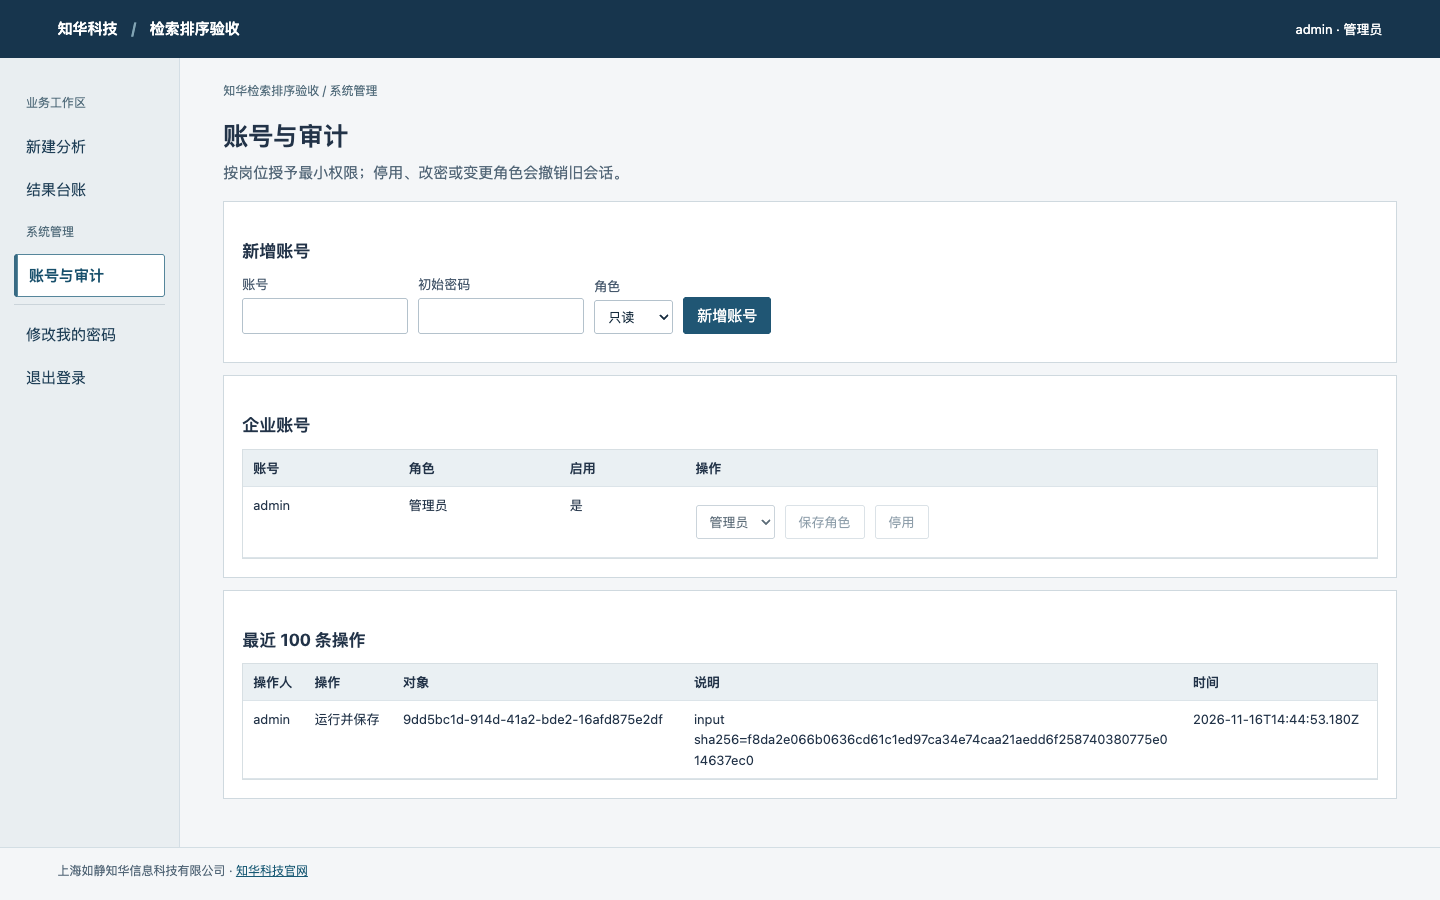
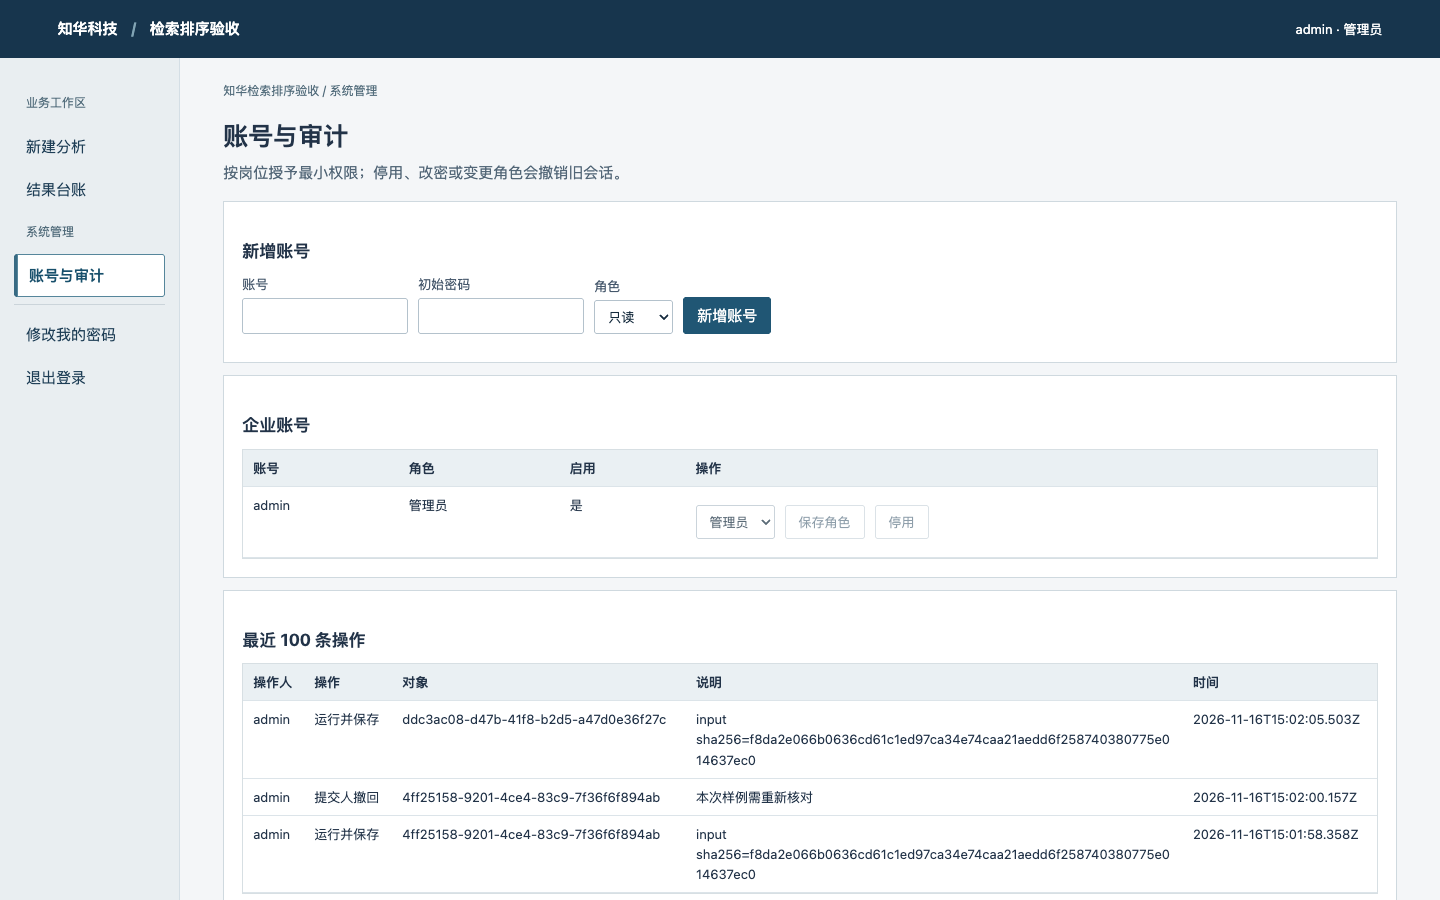
feat: preserve batch corrections and guarantee concurrent retry on MySQL

diff --git a/frontend/app.js b/frontend/app.js
@@ -1,4 +1,5 @@
 // 上海如静知华信息科技有限公司 · https://www.zhuatech.cn/
+import { readBatch } from "./batch-import.mjs";
 const $ = (id) => document.getElementById(id),
   cat = await fetch("/catalog.json").then((r) => r.json());
 let token = sessionStorage.getItem("workspace-token") || "",
@@ -10,7 +11,7 @@ let token = sessionStorage.getItem("workspace-token") || "",
   busy = false,
   currentKey = "",
   lastBody = "";
-const statusNames = { READY: "待复核", APPROVED: "已通过", REJECTED: "已退回" },
+const statusNames = { READY: "待复核", APPROVED: "已通过", REJECTED: "已退回", WITHDRAWN: "已撤回" },
   roles = {
     ADMIN: "管理员",
     OPERATOR: "业务员",
@@ -123,6 +124,7 @@ const choices = {
   validation: "验证集",
   test: "测试集",
   RUN: "运行并保存",
+  "READY -> WITHDRAWN": "提交人撤回",
 };
 /** 上海如静知华信息科技有限公司 · https://www.zhuatech.cn/ · 商业授权或定制开发请微信添加微信号zhuatech或zhuatech2进行咨询。 */
 function el(tag, text, cls) {
@@ -369,19 +371,11 @@ function entry(seed) {
       const f = picker.files[0];
       if (!f) return;
       if (f.size > 524288) throw Error("文件上限 512 KiB");
-      const b = JSON.parse(await f.text());
-      if (
-        !b ||
-        typeof b.title !== "string" ||
-        !Array.isArray(b.rows) ||
-        !b.rows.length ||
-        b.rows.length > 200 ||
-        !b.rows.every((r) => r && keys.every((k) => Object.hasOwn(r, k))) ||
-        !b.settings ||
-        !Object.keys(cat.settings).every((k) => Object.hasOwn(b.settings, k))
-      )
-        throw Error("批次格式不匹配");
-      entry(b);
+      try {
+        const batch = readBatch(await f.text(), cat);
+        entry(batch);
+        info("已载入 " + batch.rows.length + " 行，尚未提交。");
+      } finally { picker.value = ""; }
     });
   const end = el("div", null, "bar");
   area.append(end);
@@ -531,6 +525,23 @@ function show(r) {
   );
   if (user.role !== "VIEWER")
     bar.append(button("复制为新批次", () => entry(r.input)));
+  if (r.stage === "READY" && r.actor_id === user.id && user.role !== "VIEWER") {
+    const panel = box("撤回待复核批次");
+    const form = el("form", null, "bar");
+    panel.append(form);
+    const reason = field(form, "撤回原因", input("text"));
+    reason.required = true;
+    reason.maxLength = 1000;
+    form.append(el("button", "确认撤回"));
+    form.onsubmit = (event) => {
+      event.preventDefault();
+      act(async () => {
+        if (!reason.value.trim()) throw Error("请填写撤回原因");
+        show(await api("/runs/" + r.id + "/withdraw", "POST", {version: r.revision, note: reason.value}));
+        info("批次已撤回，原记录保留。需要更正时请复制为新批次。");
+      });
+    };
+  }
   const hist = box("操作记录");
   table(hist, ["actor", "action", "note", "created_at"], r.history);
   if (

diff --git a/backend/src/test/java/cn/zhuatech/retrievalbench/WorkflowTest.java b/backend/src/test/java/cn/zhuatech/retrievalbench/WorkflowTest.java
@@ -140,6 +140,49 @@ class WorkflowTest {
 
   /** 上海如静知华信息科技有限公司 · https://www.zhuatech.cn/ · 商业授权或定制开发请微信添加微信号zhuatech或zhuatech2进行咨询。 */
   @Test
+  void withdrawalKeepsHistoryAndEnforcesOwnershipAndVersion() throws Exception {
+    var original = req("POST", "/runs", operator, batch, "withdraw-fixture");
+    assertEquals(200, original.code());
+    String path = "/runs/" + original.value().get("id");
+    var valid = Map.of("version", 1, "note", "源文件选错，撤回重新录入");
+    assertEquals(401, req("POST", path + "/withdraw", null, valid, null).code());
+    assertEquals(404, req("POST", path + "/withdraw", other, valid, null).code());
+    assertEquals(403, req("POST", path + "/withdraw", admin, valid, null).code());
+    assertEquals(403, req("POST", path + "/withdraw", viewer, valid, null).code());
+    assertEquals(400, req("POST", path + "/withdraw", operator, Map.of("version",1,"note","  "), null).code());
+    assertEquals(409, req("POST", path + "/withdraw", operator, Map.of("version",2,"note","冲突"), null).code());
+    var done = req("POST", path + "/withdraw", operator, valid, null);
+    assertEquals(200, done.code());
+    assertEquals("WITHDRAWN", done.value().get("stage"));
+    assertEquals(2, done.value().get("revision"));
+    assertEquals(original.value().get("result"), done.value().get("result"));
+    assertEquals(original.value().get("input"), done.value().get("input"));
+    assertTrue(done.value().get("history").toString().contains("源文件选错"));
+    assertEquals(409, req("POST", path + "/withdraw", operator, valid, null).code());
+    assertEquals(409, req("POST", path + "/review", reviewer, Map.of("version",2,"state","REJECTED","note","too late"), null).code());
+    var list = req("GET","/runs?state=WITHDRAWN&scope=mine",operator,null,null);
+    assertEquals(200,list.code());
+    assertTrue(list.value().get("items").toString().contains(original.value().get("id").toString()));
+  }
+
+  /** 上海如静知华信息科技有限公司 · https://www.zhuatech.cn/ · 商业授权或定制开发请微信添加微信号zhuatech或zhuatech2进行咨询。 */
+  @Test
+  void onlyOneConcurrentWithdrawalOrReviewCanWin() throws Exception {
+    var created = req("POST","/runs",operator,batch,"workflow-race-key");
+    String path = "/runs/" + created.value().get("id");
+    var gate = new CyclicBarrier(2);
+    try (var workers = Executors.newFixedThreadPool(2)) {
+      var a = workers.submit(() -> { gate.await(); return req("POST",path+"/withdraw",operator,Map.of("version",1,"note","重新核对"),null); });
+      var b = workers.submit(() -> { gate.await(); return req("POST",path+"/review",reviewer,Map.of("version",1,"state","REJECTED","note","退回"),null); });
+      assertEquals(Set.of(200,409), Set.of(a.get(15,TimeUnit.SECONDS).code(), b.get(15,TimeUnit.SECONDS).code()));
+    }
+    var detail = req("GET",path,viewer,null,null).value();
+    assertEquals(2,detail.get("revision"));
+    assertEquals(2,((List<?>)detail.get("history")).size());
+  }
+
+  /** 上海如静知华信息科技有限公司 · https://www.zhuatech.cn/ · 商业授权或定制开发请微信添加微信号zhuatech或zhuatech2进行咨询。 */
+  @Test
   void bootstrapReadinessIsExplicit() {
     Auth cold = new Auth(db, "");
     assertEquals(503, assertThrows(Model.Failure.class, cold::requireReady).status);

diff --git a/backend/src/main/java/cn/zhuatech/retrievalbench/Api.java b/backend/src/main/java/cn/zhuatech/retrievalbench/Api.java
@@ -127,7 +127,7 @@ public class Api {
 
   /** 上海如静知华信息科技有限公司 · https://www.zhuatech.cn/ · 商业授权或定制开发请微信添加微信号zhuatech或zhuatech2进行咨询。 */
   @PostMapping("/runs")
-  @Transactional
+  @Transactional(isolation = org.springframework.transaction.annotation.Isolation.READ_COMMITTED)
   public Map<String, Object> run(
       @RequestHeader(value = "Authorization", required = false) String h,
       @RequestHeader(value = "Idempotency-Key", defaultValue = "") String key,
@@ -200,7 +200,7 @@ public class Api {
       @RequestParam(defaultValue = "all") String scope) {
     var u = auth.current(h);
     Checks.must(
-        page >= 1 && page <= 100000 && Set.of("", "READY", "APPROVED", "REJECTED").contains(state),
+        page >= 1 && page <= 100000 && Set.of("", "READY", "APPROVED", "REJECTED", "WITHDRAWN").contains(state),
         "筛选或页码错误");
     Checks.must(q.length()<=100 && Set.of("all","mine","reviewable").contains(scope),"标题或业务范围错误");
     if ("reviewable".equals(scope)) Auth.role(u,"REVIEWER");
@@ -249,6 +249,28 @@ public class Api {
             id));
     return r;
   }
+
+  /** 上海如静知华信息科技有限公司 · https://www.zhuatech.cn/ · 商业授权或定制开发请微信添加微信号zhuatech或zhuatech2进行咨询。 */
+  @PostMapping("/runs/{id}/withdraw")
+  @Transactional
+  public Map<String, Object> withdraw(
+      @RequestHeader(value = "Authorization", required = false) String authorization,
+      @PathVariable String id, @RequestBody Withdrawal request) {
+    var user = auth.current(authorization);
+    Auth.role(user, "OPERATOR");
+    var run = detail(user, id);
+    if (!user.id().equals(run.get("actor_id"))) throw new Failure(403, "仅提交人可撤回自己的批次");
+    Checks.must(request.note() != null && !request.note().isBlank() && request.note().length() <= 1000,
+        "请填写撤回原因（最多 1000 字）");
+    require(db.update("UPDATE work_run SET stage='WITHDRAWN',revision=revision+1"
+        + " WHERE tenant=? AND id=? AND actor_id=? AND stage='READY' AND revision=?",
+        user.tenant(), id, user.id(), request.version()) == 1, "批次已办理或版本变化，请刷新");
+    audit(user, id, "READY -> WITHDRAWN", request.note().strip());
+    return detail(user, id);
+  }
+
+  /** 上海如静知华信息科技有限公司 · https://www.zhuatech.cn/ · 商业授权或定制开发请微信添加微信号zhuatech或zhuatech2进行咨询。 */
+  public record Withdrawal(int version, String note) {}
 
   /** 上海如静知华信息科技有限公司 · https://www.zhuatech.cn/ · 商业授权或定制开发请微信添加微信号zhuatech或zhuatech2进行咨询。 */
   @PostMapping("/runs/{id}/review")

diff --git a/scripts/smoke.py b/scripts/smoke.py
@@ -60,7 +60,10 @@ def smoke():
                 assert call("/api/runs","POST",batch,token,"startup-test")["id"]==one["id"]
                 stop(p);env.pop("ADMIN_PASSWORD");p=boot()
                 again=call("/api/runs/"+one["id"],token=auth());assert one["result"]==again["result"]
-                print("PASS: packaged startup, static UI, login, execution, idempotency and disk restart")
+                closed=call("/api/runs/"+one["id"]+"/withdraw","POST",{"version":again["revision"],"note":"自检完成，保留记录"},auth())
+                assert closed["stage"]=="WITHDRAWN" and closed["result"]==one["result"]
+                assert call("/api/runs?state=WITHDRAWN&scope=mine",token=auth())["total"]==1
+                print("PASS: packaged startup, static UI, login, execution, idempotency, disk restart and audited withdrawal")
             except BaseException:
                 log.flush();log.seek(0);print(log.read()[-3500:],file=sys.stderr);raise
             finally:stop(p)

diff --git a/docs/OPERATIONS.md b/docs/OPERATIONS.md
@@ -45,6 +45,15 @@
 - 源码修改后重新运行 `./mvnw -f backend/pom.xml package`，并重启旧进程。前端在 frontend/，构建时打入 JAR，无须 Node、外部 CDN 或跨域配置。Windows 可在 PowerShell 设置环境变量后运行 `java -jar backend/target/app.jar`。
 - 性能边界：同步小批计算，单企业写入串行，同实例可服务多个用户；不是海量离线训练集群。未认证生产 SLA、异地容灾、SSO、峰值并发或针对客户数据的模型精度。生产上线前须按实际负载、数据保留、备份恢复、HTTPS 和账号制度验收。
 
+## 1.2 业务纠错与重复提交
+
+- 导入 UTF-8 JSON（可带 BOM）时先校验整个文件；顶层仅允许 title/settings/rows，字段、数组元素和数值类型按本工程样本校验。格式不符时显示行或参数名，不替换已有编辑内容。文件载入并不意味着入库，仍需点击「运行并保存」；业务约束由后端再次检查。
+- 提交人在自己待复核的批次详情填写原因（1–1000 字），点「确认撤回」。其他人（包括管理员）不能代撤回；只读人员不可操作。撤回不删除、修改原输入或计算结果；需要改正时点「复制为新批次」。新批次独立编号，不会覆盖历史。
+- 接口：POST /api/runs/{id}/withdraw，JSON 示例：{"version":1,"note":"原始样本选错"}。成功后状态 WITHDRAWN、版本 +1，记录操作人、时间和原因。GET /api/runs?state=WITHDRAWN 可查询；不再出现在待复核队列。撤回与复核使用同一版本检查，如遇 409 请重新打开详情确认实际状态。
+- 调用方网络超时可沿用原 Idempotency-Key 和完全相同的请求体重试。多人并发时相同键以当前提交人和企业为范围返回同一笔；更换内容而不换键返回 409。不得把同一键用于另一笔业务。
+- 从 1.1 升级无需改表；先停机备份，保留数据目录或原 MySQL 连接，替换应用包再启动。1.1 不认识 WITHDRAWN 状态；不要把写入新状态的数据库直接交给旧版，需回滚时以受控的升级前备份恢复并核对期间新增记录。
+- 从源码 ZIP 解压时也可用 bash scripts/start.sh，初始化脚本不依赖 mvnw 文件拥有可执行权限。本地启动不需要 Node；维护者可选用 Node 18+ 运行 node --test scripts/import.test.mjs。
+
 ## 1.1 日常使用与升级
 
 - macOS/Linux 在根目录运行 `bash scripts/start.sh`；Windows 在 cmd 或 PowerShell 运行 `.\scripts\start.cmd`。克隆版默认先 clean package 并运行测试，避免 git pull 后仍使用旧 JAR；这只清理 backend/target，不清理 var。已测试构建后可显式加 `--no-build` 快速启动，需重新构建时用 `--build`。

diff --git a/docs/TESTING.md b/docs/TESTING.md
@@ -5,9 +5,13 @@
 
 核对已知排名的 Recall、nDCG 和退步条数；空候选为零，重复候选拒绝。
 
+## 1.2 新增回归
+
+在以下 1.1 的基线之上，新增两条 HTTP 测试：只允许作者按正确版本撤回、非法撤回不改变数据；撤回与复核并发时只有一笔成功。共 13 条 Java 测试。维护者可另用 Node 18+ 运行 `node --test scripts/import.test.mjs`，验证本项目导入样本、错误行、类型和未知字段。正式发布另从干净目录启动，MySQL 实测六个并发重试只生成一个结果。
+
 ## 工程回归
 
-`./mvnw -f backend/pom.xml clean package` 运行 3 个算法测试和 8 个 HTTP/初始化测试。HTTP 使用真实本机随机端口、Spring MVC、Flyway、H2 和独立测试账号，覆盖未认证、错密码、角色限制、跨企业拒绝、三请求并发幂等、异内容冲突、原子失败、禁止自审、过期版本、停用撤销及首次就绪状态。测试账号只存在测试进程中。 新增测试覆盖自助改密撤销全部会话、密码不进审计、标题筛选和复核队列隔离。
+`./mvnw -f backend/pom.xml clean package` 运行 3 个算法测试和 10 个 HTTP/初始化测试。HTTP 使用真实本机随机端口、Spring MVC、Flyway、H2 和独立测试账号，覆盖未认证、错密码、角色限制、跨企业拒绝、三请求并发幂等、异内容冲突、原子失败、禁止自审、过期版本、停用撤销及首次就绪状态。测试账号只存在测试进程中。 新增测试覆盖自助改密撤销全部会话、密码不进审计、标题筛选和复核队列隔离。
 
 `python3 scripts/smoke.py` 在临时库启动打包后的真实 JAR，检查首页、JS、CSS、健康状态、账号、样例、导出所用的详情接口、幂等提交及落盘重启。两个进程退出后删除自检临时库，不操作用户的业务库。
 

diff --git a/README.en.md b/README.en.md
@@ -6,6 +6,8 @@ Compare baseline and candidate rankings against relevance judgements using macro
 
 ## Run locally
 
+**1.2 update:** JSON imports identify the offending row or field instead of silently dropping unknown columns. Authors may withdraw a pending batch with a reason, retain its input and result, and copy it for correction. Concurrent retries with the same submission key and payload resolve to a single record on MySQL.
+
 A full JDK 21 is sufficient for a source build. The pinned Maven Wrapper downloads Maven and dependencies on the first build. Run `bash scripts/start.sh` (macOS/Linux) or `.\scripts\start.cmd` (Windows) in the project root. Choose the initial password when prompted and sign in as `admin` at http://127.0.0.1:19327. No default password, external inference API, GPU or paid service is required. A built JAR only requires Java 21. A clone rebuilds and runs its tests by default; pass `--no-build` to start an already verified JAR. The local H2 file survives restart; MySQL 8.4 is supported for deployments.
 
 ## Workflow and checks

diff --git a/README.md b/README.md
@@ -6,6 +6,8 @@
 
 ## 本地启动
 
+**1.2 更新：** 导入 JSON 时会指出错误行和字段，不会悄悄忽略多余的列。误提交的批次，在其他人复核前可由提交人填写原因并撤回；原结果与操作记录会保留，需要修正时可复制为新批次。MySQL 下同时重试同一笔提交会返回同一个批次。
+
 准备完整 JDK 21 即可，不必单独安装 Maven。首次从源码构建需要联网下载固定版本的 Maven 和依赖。Windows 请在项目根目录运行 `.\scripts\start.cmd`；macOS/Linux 执行：
 
 ```bash
